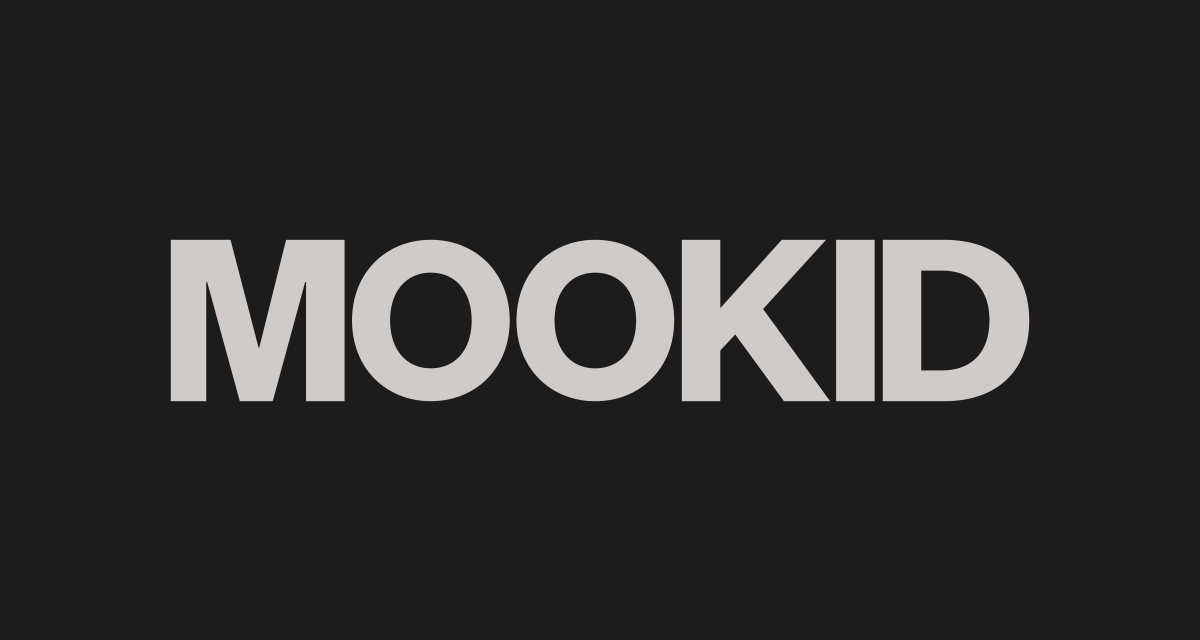
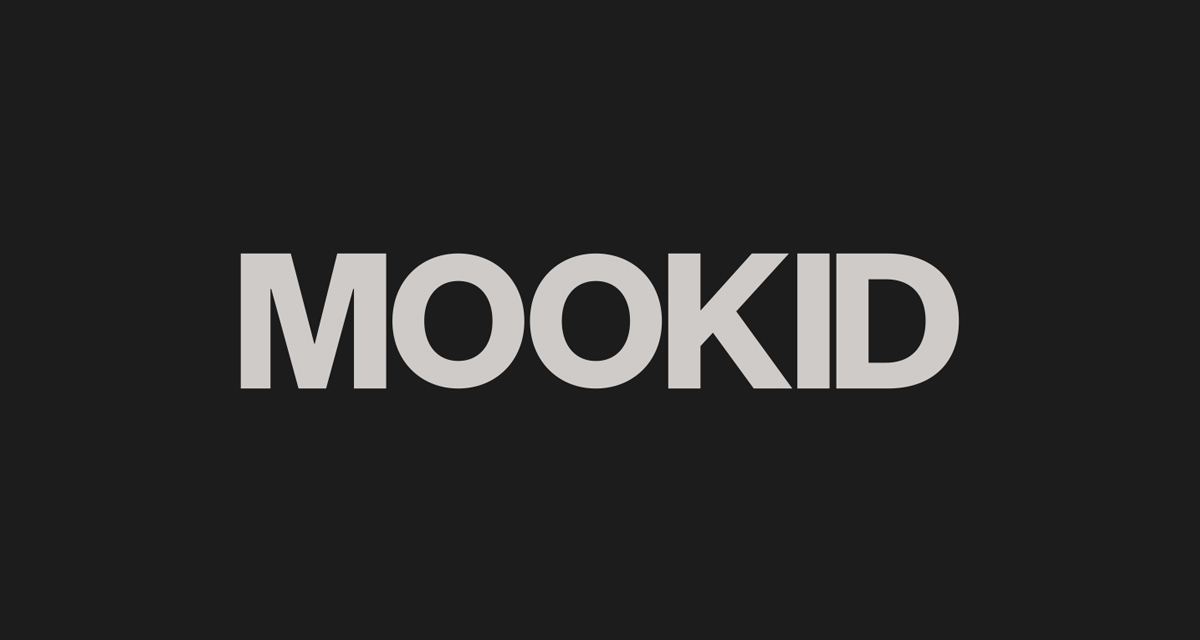
og image changed
to a smaller size

Changed region(s): [[0.1233, 0.375, 0.8633, 0.625]]

diff --git a/index.html b/index.html
@@ -6,16 +6,13 @@
 	<title>Mookid | Welcome</title>
 	<meta name="description" content="Welcome to my web design and development portfolio, actually, this is my second one.">
 	<meta name="viewport" content="width=device-width, initial-scale=1">
-
 	<meta property="og:title" content="Mookid">
 	<meta property="og:type" content="Second portfolio of Andres Guzman.">
 	<meta property="og:url" content="https://www.mookid.dev">
 	<meta property="og:image" content="https://www.mookid.dev/mookid.jpg">
-
 	<link rel="manifest" href="site.webmanifest">
 	<link rel="apple-touch-icon" href="icon.png">
 	<link rel="icon" type="image/jpg" href="favicon.png">
-
 	<link rel="stylesheet" href="styles/mookid.min.css">
 	<meta name="theme-color" content="#cfcbc8">
 </head>
@@ -122,7 +119,6 @@
 	<script src="https://unpkg.com/smooth-scrollbar@latest/dist/smooth-scrollbar.js"></script>
 	<script src="scripts/mookid.min.js"></script>
 
-	<!--
 	<script async src="https://www.googletagmanager.com/gtag/js?id=G-5V7GW0LG6P"></script>
     <script>
         window.dataLayer = window.dataLayer || [];
@@ -131,8 +127,6 @@
 
         gtag('config', 'G-5V7GW0LG6P');
     </script>
-	-->
 
 </body>
-
 </html>
